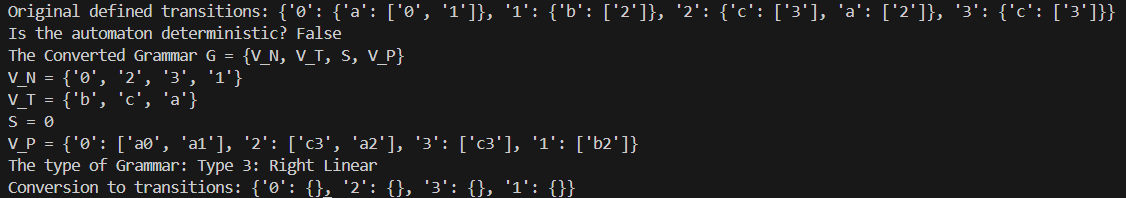
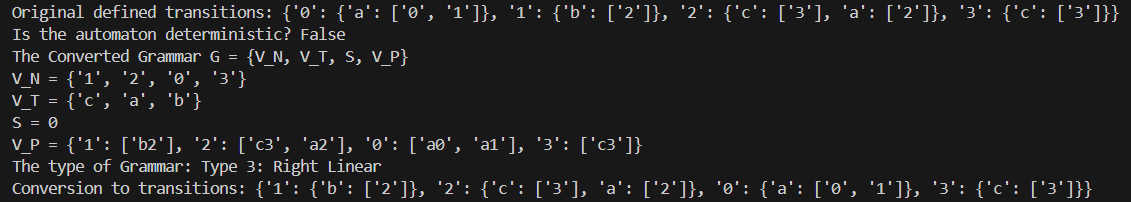
Fixed get_type method

diff --git a/main.py b/main.py
@@ -112,14 +112,14 @@ class Grammar:
             for production in productions:
                 if len(production) == 1:  # End terminal production
                     transitions[non_terminal][production] = final_state
-                elif self.type == 'Right Linear':
+                elif self.type == 'Type 3: Right Linear':
                     transition, new_state = production[:-1], production[1]
                     if non_terminal in transitions and transition in transitions[non_terminal]:
                          transitions[non_terminal][transition].append(new_state)
                     else:
                         transitions[non_terminal][transition] = [new_state]
                     
-                elif self.type == 'Left Linear':
+                elif self.type == 'Type 3: Left Linear':
                     transition, new_state = production[1], production[:-1]
                     if non_terminal in transitions and transition in transitions[non_terminal]:
                          transitions[non_terminal][transition].append(new_state)
@@ -248,13 +248,6 @@ class FiniteAutomaton:
             start_state=dfa_states_map[frozenset([self.start_state])],
             final_states=dfa_accept_states
         )
-    def _state_set_to_name(self, states_set):
-        # Return the existing state name if it's a single state
-        if len(states_set) == 1:
-            return next(iter(states_set))
-
-        # Create a composite state name by joining state names with ,
-        return ','.join(sorted(states_set))
             
 if __name__ == '__main__':
     # FA definition based on provided details
